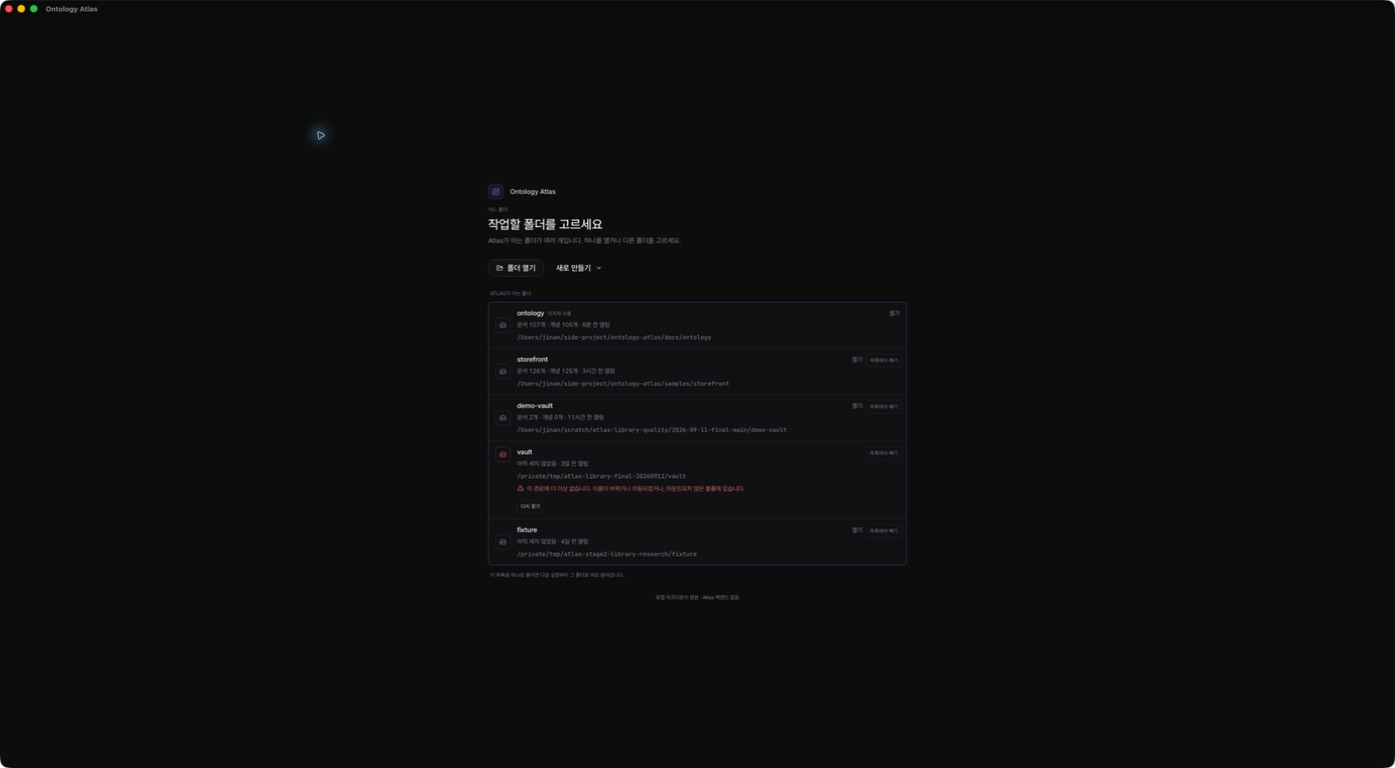
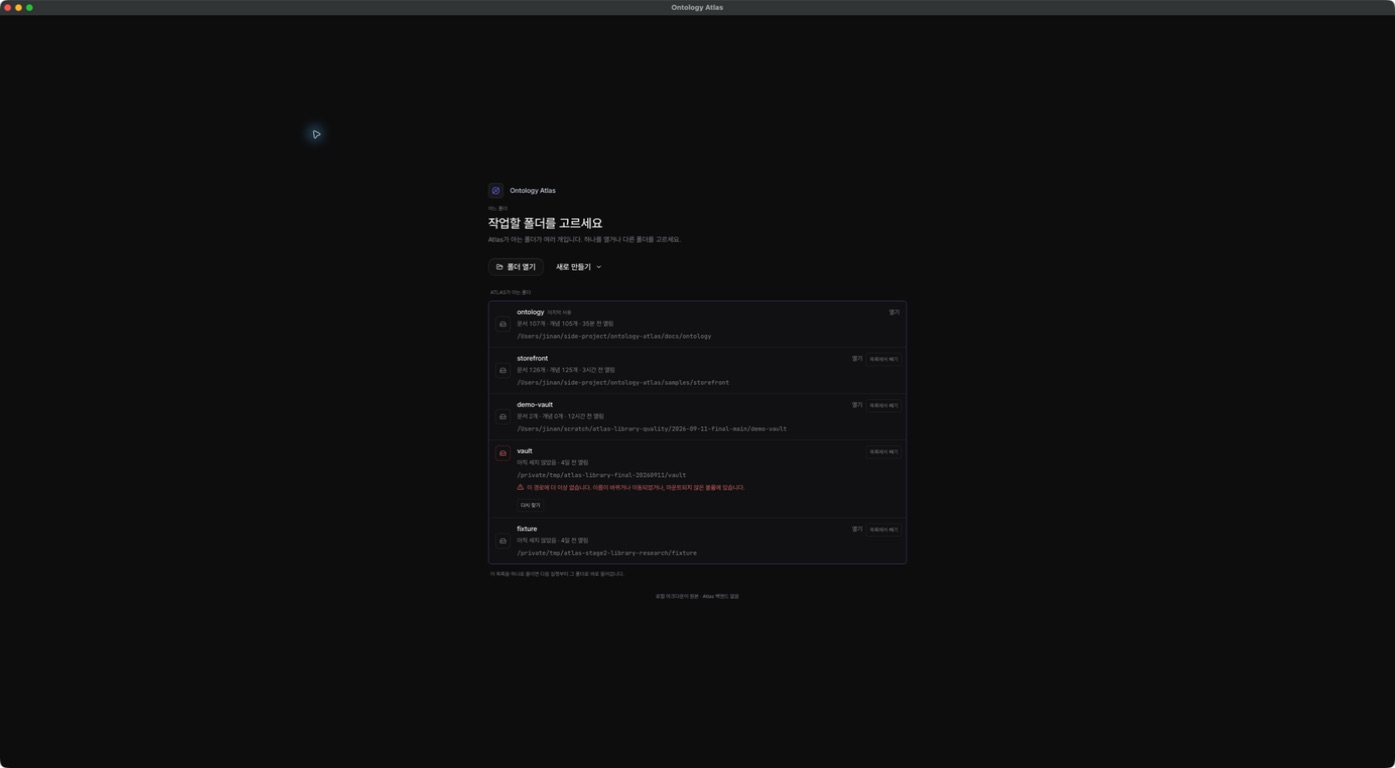
chore: point download page at verified v1.2.4 (#1640)

diff --git a/src/views/download/model/macos-release.generated.ts b/src/views/download/model/macos-release.generated.ts
@@ -55,23 +55,23 @@ export interface WindowsRelease {
 export const MACOS_RELEASE: MacosRelease = {
   published: true,
   prerelease: false,
-  tag: "v1.2.3",
-  publishedAt: "2026-09-13T16:56:50Z",
-  releaseUrl: "https://github.com/wlsdks/ontology-atlas/releases/tag/v1.2.3",
+  tag: "v1.2.4",
+  publishedAt: "2026-09-15T00:38:35Z",
+  releaseUrl: "https://github.com/wlsdks/ontology-atlas/releases/tag/v1.2.4",
   assets: [
     {
       arch: "aarch64",
-      fileName: "ontology-atlas_1.2.3_aarch64.dmg",
-      sizeBytes: 59152387,
[1 lines of base64/hex data omitted]
-      downloadUrl: "https://github.com/wlsdks/ontology-atlas/releases/download/v1.2.3/ontology-atlas_1.2.3_aarch64.dmg",
+      fileName: "ontology-atlas_1.2.4_aarch64.dmg",
+      sizeBytes: 59751246,
[1 lines of base64/hex data omitted]
+      downloadUrl: "https://github.com/wlsdks/ontology-atlas/releases/download/v1.2.4/ontology-atlas_1.2.4_aarch64.dmg",
     },
     {
       arch: "x64",
-      fileName: "ontology-atlas_1.2.3_x64.dmg",
-      sizeBytes: 62924202,
[1 lines of base64/hex data omitted]
-      downloadUrl: "https://github.com/wlsdks/ontology-atlas/releases/download/v1.2.3/ontology-atlas_1.2.3_x64.dmg",
+      fileName: "ontology-atlas_1.2.4_x64.dmg",
+      sizeBytes: 63157133,
[1 lines of base64/hex data omitted]
+      downloadUrl: "https://github.com/wlsdks/ontology-atlas/releases/download/v1.2.4/ontology-atlas_1.2.4_x64.dmg",
     },
   ],
 };
@@ -79,16 +79,16 @@ export const MACOS_RELEASE: MacosRelease = {
 export const WINDOWS_RELEASE: WindowsRelease = {
   published: true,
   prerelease: false,
-  tag: "v1.2.3",
-  publishedAt: "2026-09-13T16:56:50Z",
-  releaseUrl: "https://github.com/wlsdks/ontology-atlas/releases/tag/v1.2.3",
+  tag: "v1.2.4",
+  publishedAt: "2026-09-15T00:38:35Z",
+  releaseUrl: "https://github.com/wlsdks/ontology-atlas/releases/tag/v1.2.4",
   assets: [
     {
       arch: "x64",
-      fileName: "ontology-atlas_1.2.3_windows_x64-setup.exe",
-      sizeBytes: 55115711,
[1 lines of base64/hex data omitted]
-      downloadUrl: "https://github.com/wlsdks/ontology-atlas/releases/download/v1.2.3/ontology-atlas_1.2.3_windows_x64-setup.exe",
+      fileName: "ontology-atlas_1.2.4_windows_x64-setup.exe",
+      sizeBytes: 55759503,
[1 lines of base64/hex data omitted]
+      downloadUrl: "https://github.com/wlsdks/ontology-atlas/releases/download/v1.2.4/ontology-atlas_1.2.4_windows_x64-setup.exe",
       signed: false,
     },
   ],
